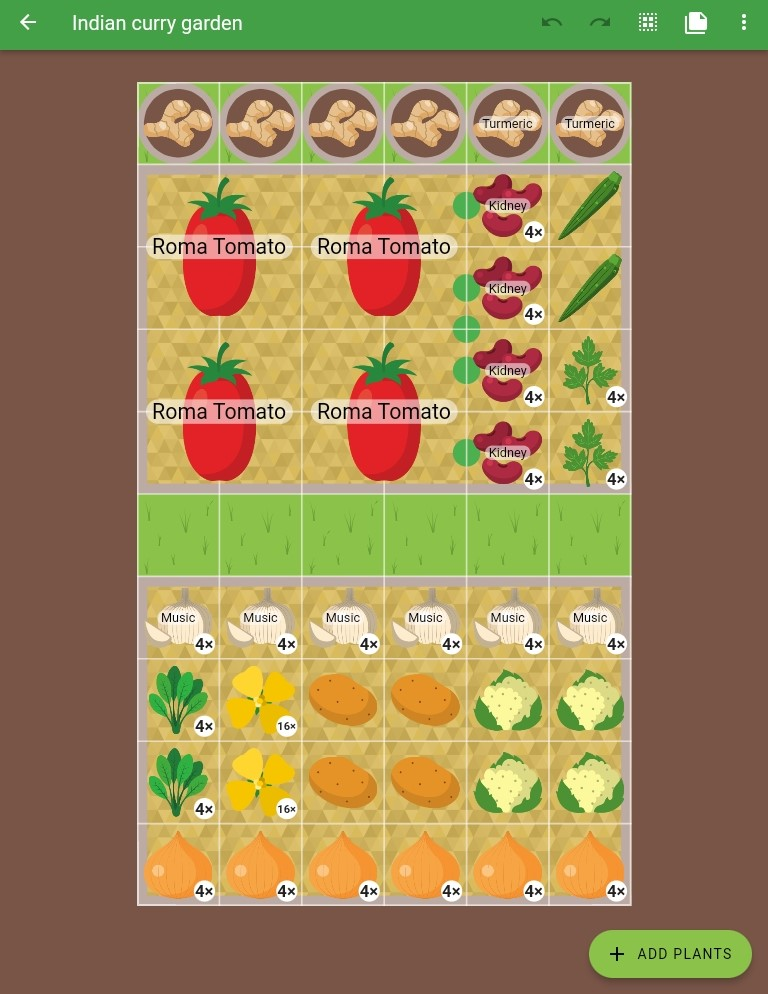
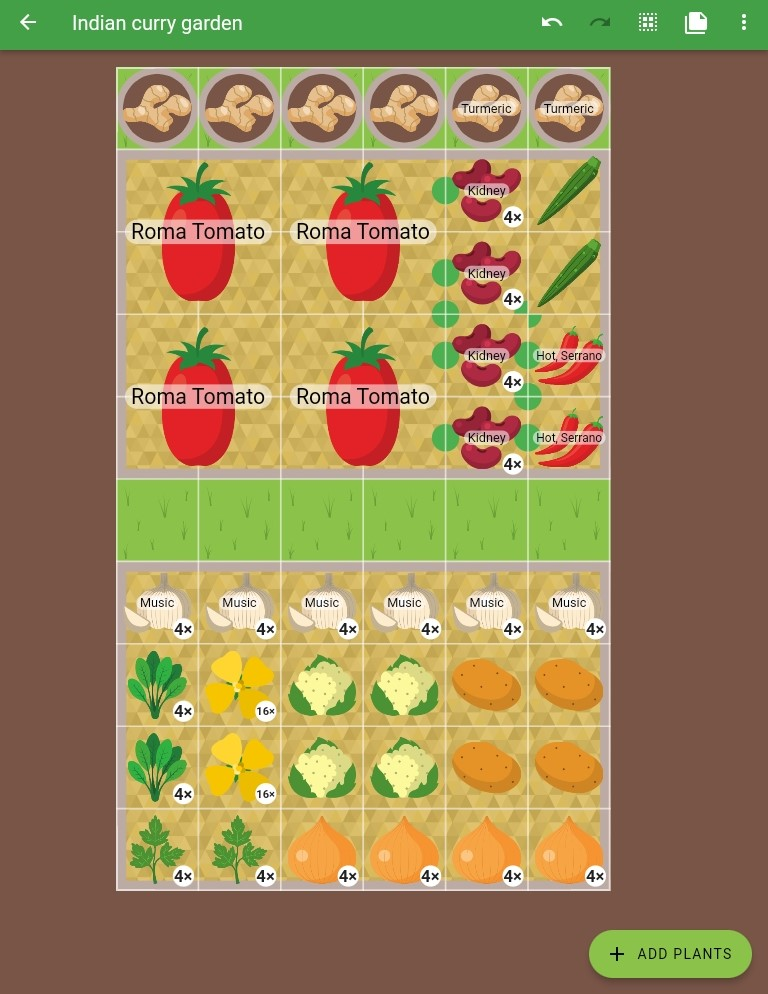
Update Blog post “curry-garden-plan/index”

diff --git a/content/posts/curry-garden-plan/index.md b/content/posts/curry-garden-plan/index.md
@@ -1,5 +1,5 @@
 +++
-draft = true
+draft = false
 title = "Plan Your Curry Garden"
 slug = "curry-garden-plan"
 date = 2023-11-27T22:10:30.621Z
@@ -15,11 +15,11 @@ alt = "A plate with a curry dish surrounded by fresh vegetables and a tablet sho
 +++
 While there are many factors to consider when planning a garden, it's important to plan based on the types of dishes you and your family enjoy preparing. If you and your family enjoy cooking food with a global flair, you might want to consider planning a ‘curry garden’.
 
-‘Curry’ is actually a loose, catch-all term that doesn’t properly refer to any specific dish. In its originating culture, each dish would have its own unique name. That being said, many dishes that could be loosely grouped as ‘curry-style’ dishes can be created using many of the same core plants in the garden. Let's look at a few ways you can plan a curry-themed garden in [Planter](https://planter.garden/gardens).
+‘Curry’ is actually a loose, catch-all term that doesn’t properly refer to any specific dish. In its originating culture, each dish would have its own unique name. That being said, many dishes that could be loosely grouped as ‘curry-style’ dishes can be created using many of the same core plants in the garden. Let's explore some potential ways to plan a culinary curry garden in [Planter](https://planter.garden/gardens)!
 
 ## Curry garden base plan
 
-Our sample curry garden base plan is filled with uber-versatile plants that form the backbone of great curry dishes:
+Our sample curry garden base plan starts with a standard 4' x 8' garden in [Planter](https://planter.garden/gardens). We've filled the garden with uber-versatile plants that form the backbone of great curry dishes:
 
 * Garlic
 * Ginger
@@ -28,15 +28,15 @@ Our sample curry garden base plan is filled with uber-versatile plants that form
 * Tomatoes
 * Onions
 
-![Screenshot of a curry garden plan in Planter](thai-curry-garden.jpg)
+![Screenshot of a curry garden plan in Planter](curry-garden.jpg)
 
 Garlic and cooking onions were placed on the outside because they are slow growers and need to be harvested by pulling or forking them out of the soil. Two hot pepper plants might not seem like a lot, but they’ll likely be prolific enough to provide your family with ample chili harvests (of course if you’re major spice lovers feel free to add more!) While cilantro is associated with cuisines from some of the hotter parts of the world, it actually can’t take the heat all that well and has a tendency to [bolt](https://blog.planter.garden/posts/plant-bolting-a-seedy-situation/) and go bitter. Because of this, you might want to plan to plant your cilantro in [successions](https://blog.planter.garden/posts/succession-planting-for-nonstop-harvests/).
 
 Roma tomatoes were chosen because they are a nice meaty tomato that work well for cooked sauces. Ginger is added in containers because a) it grows slowly and needs to be started indoors well in advance if you live in a cooler climate and b) the containers can be moved and positioned around the garden so the plants receive dappled sun- ginger loves the heat but not direct, scorching sunlight.
 
-When choosing locations for these plants in your own plan, be sure to position them so they’ll be easily accessible for harvesting and where they won't shade each other out unintentionally. 
+When choosing locations for the plants in your own plan, be sure to position them so they’ll be easily accessible for harvesting and where they won't shade each other out unintentionally. This base plan is just a starting point that you can adapt to your unique garden conditions. 
 
-If you have a bit more garden space to play with, consider branching out into some specific cuisines:
+If you happen to have some more space to play with in your garden, consider branching out into some specific cuisines:
 
 ## Thai curry garden plan
 
@@ -55,9 +55,9 @@ Thai food is vibrant and features an array of different veggies. To prepare some
 
 ![Screenshot of a Thai curry garden plan in Planter](thai-curry-garden.jpg)
 
-The Thai curry garden plan incorporates most of the plants from the base curry garden plan. Serrano chiles were swapped for Thai chiles, and more garlic and onions were added. A pathway was left between the two garden areas to allow for access to tend and harvest the plants. Lemongrass is included as a unique container plant- be sure to give it a head start indoors if you’re growing in a cooler climate. Mint was also kept in a container to prevent it from spreading and taking over the entire garden! Basil plays more nicely so its OK to incorporate right into the garden bed. If possible, try to find Thai varieties of mint and basil to offer a more authentic flavor. 
+The Thai curry garden plan incorporates most of the plants from the base curry garden plan then adds on. Serrano chiles were swapped for Thai chiles, and more garlic and onions were added. Lemongrass is a staple ingredient in many Thai dishes- its included in a container to be able to start early indoors and easily transition it outside. Mint was also added in a container, but this is to prevent it from spreading and taking over the entire garden! Basil plays more nicely so it can be incorporated right into the garden bed. If possible, try to find Thai varieties of mint and basil for a more authentic flavor to your Thai curries. 
 
-For something slightly more adventurous peanuts and a dwarf lime were added to the plan. Peanuts can grow well even in northern climates as long as you select an appropriate variety and ensure they are planted with enough time to mature. Limes on the other hand are frost sensitive, but dwarf varieties can be grown as container plants that can be brought inside over winter. If this seems like too much work, forgo the lime and plant something else instead- just be sure not to fill the middle of the garden with plants that will be hard to reach.
+For something slightly more adventurous peanuts and a dwarf lime were added to the plan- these ingredients are often incorporated in Thai dishes or used as accompaniments. Peanuts can grow well even in somewhat northern climates as long as you select an appropriate variety and ensure they are planted with enough time to mature. Limes on the other hand are frost sensitive, but dwarf varieties can be grown as container plants that can be brought inside over winter. If overwintering a lime tree seems like too much work, forgo it and plant something else instead- just be sure not to fill the middle of the garden space with plants that will be hard to reach.
 
 ## Indian curry garden plan
 
@@ -75,8 +75,8 @@ The Indian curry garden plan also works off the same base curry garden plan, but
 
 ![A screenshot of an Indian curry garden plan in Planter](indian-curry-garden.jpg)
 
-Turmeric is a rhizomatous plant (i.e., a plant that spreads by rhizomes), similar to ginger. Since turmeric isn’t available in Planter (yet!) one workaround is to create a custom variety of ginger and name it turmeric (turmeric isn't technically a ginger variety but this is just a quick fix). Like ginger, turmeric is grown in pots so it can be started well in advance and moved around in the garden to capture the perfect balance of sun and shade.
+Turmeric is a plant that spreads and grows by rhizomes, similar to ginger. Since turmeric isn’t available in Planter (yet!) one workaround is to create a custom variety of ginger and name it turmeric (turmeric isn't technically a ginger variety but this is just a quick fix). Like ginger, turmeric is grown in pots so it can be started well in advance and moved around in the garden to capture the perfect balance of sun and shade.
 
 Cauliflower and potatoes are included in the plan as core ingredients in the popular and delicious dish ‘aloo gobi’. Okra is added as the key component of ‘bhindi masala’, and the kidney beans can be used to prepare delicious ‘rajma’. With drying beans you’ll want to have several plants to get a yield that is substantial enough to make bean-based dishes. Rounding out the list we have spinach and mustard- spinach can be used to make a mouth-watering ‘saag paneer’ and along with mustard greens (and other mixed greens) can be used to create delicious ‘saag’ curries. And if your mustard [bolts](https://blog.planter.garden/posts/plant-bolting-a-seedy-situation/) and goes to seed no worries- mustard seed is also a key spice in many Indian dishes!
 
-We hope these curry garden plans have provided some inspiration to plan a fun and practical cuisine-themed garden! Having all the veggies at hand to create a whole range of dishes is important to be able to make the best use of your garden produce in the kitchen. The best part is [Planter](https://planter.garden/gardens) makes the process of playing around with all the different garden design possibilities easy and fun!
+We hope these curry garden plans have provided some inspiration to plan a fun and practical cuisine-themed garden! Having all the veggies at hand to create a whole range of dishes will help you make the best use of your garden produce in the kitchen. [Planter](https://planter.garden/gardens) makes it easy and fun to explore garden design possibilities to compliment your culinary adventures!
